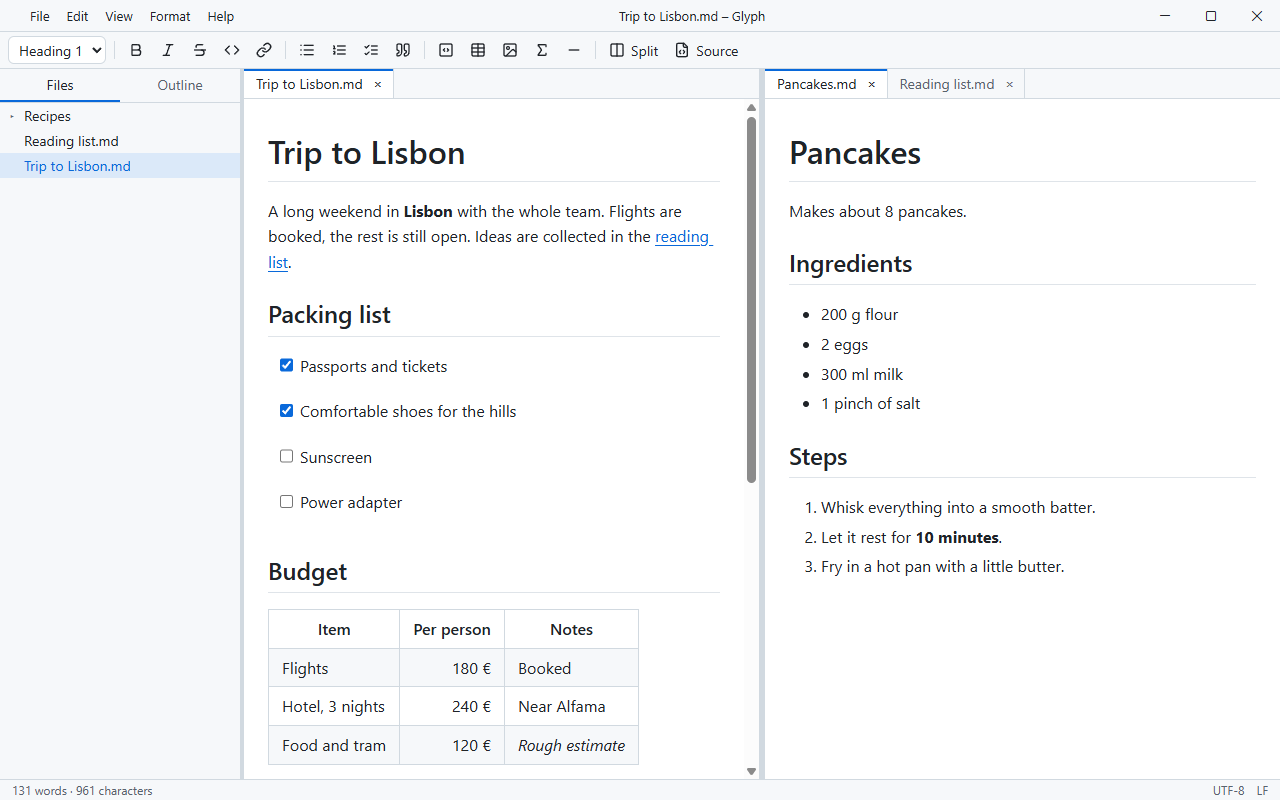
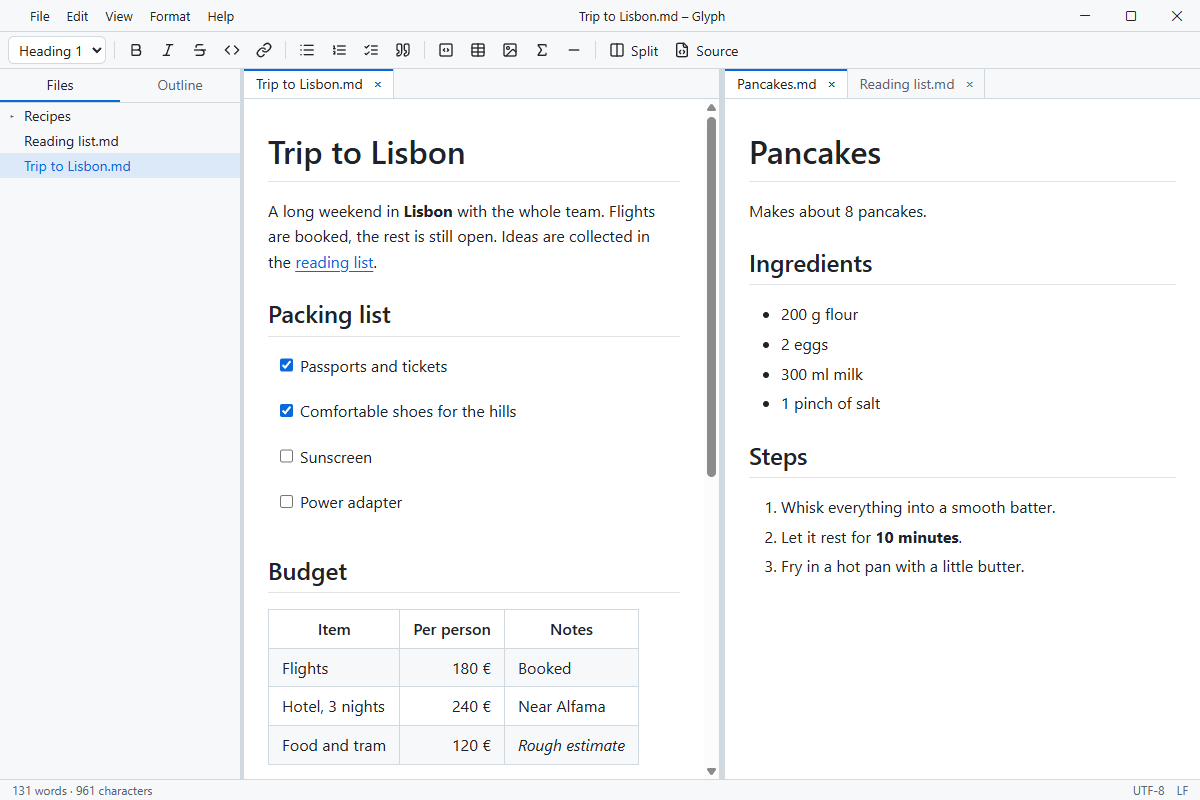
docs: show the dark theme first

diff --git a/README.md b/README.md
@@ -2,7 +2,9 @@
 
 Glyph is a desktop Markdown editor for Windows by ChillCode. You write in a single live view: a heading grows as you type `#`, `**bold**` turns bold, and the Markdown syntax steps back once the cursor leaves the element. There is no separate preview pane to keep an eye on, yet the file on disk stays plain Markdown, and Glyph writes it back exactly as it found it unless you changed something.
 
-![Glyph with the folder sidebar and a document in the live view](images/live-light.png)
+![Glyph with the folder sidebar and a document in the live view, dark theme](images/live-dark.png)
+
+![The same view in the light theme](images/live-light.png)
 
 ## Why Glyph
 
